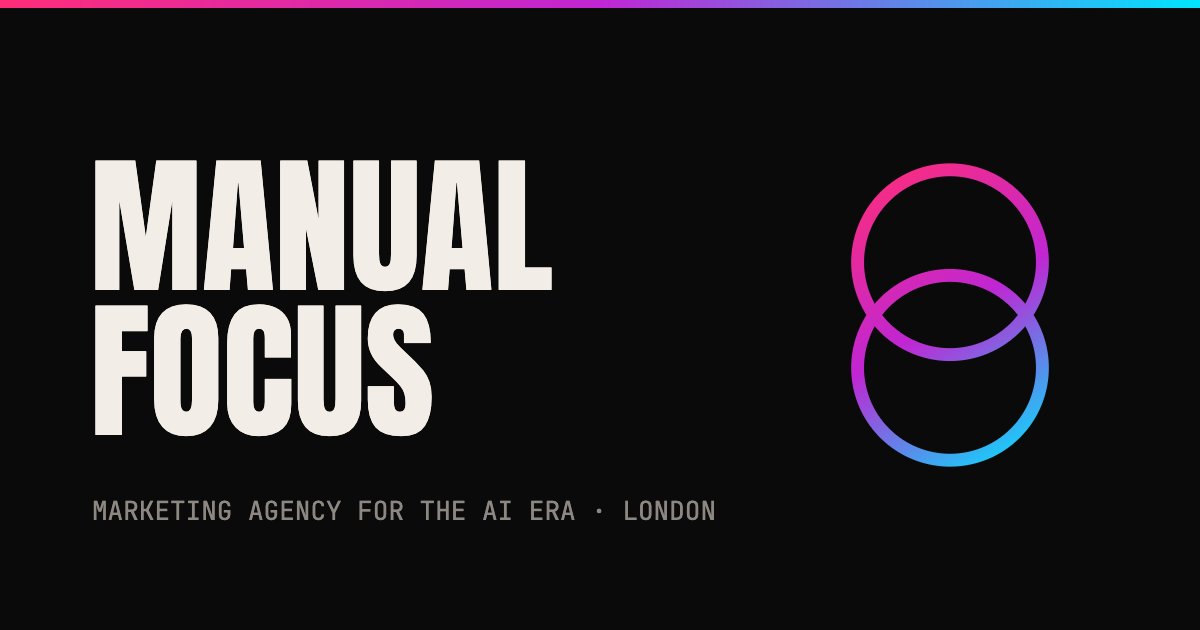
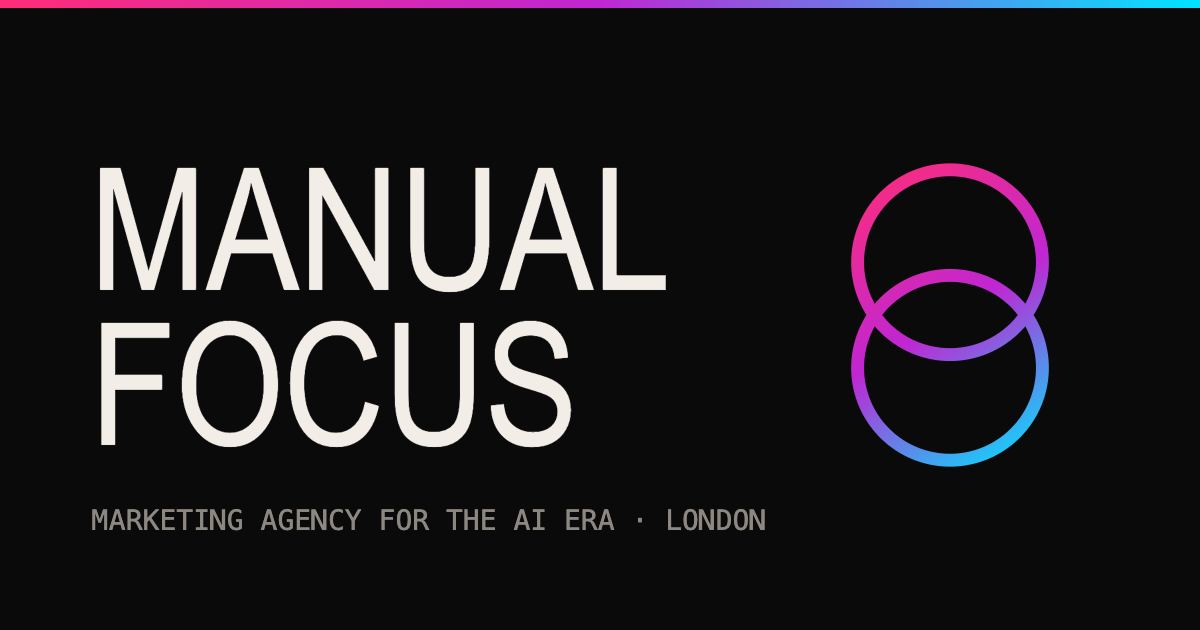
Revert webfont loading — restore the approved fallback typography
The previous self-hosting change unintentionally altered the site's
appearance. The old Google Fonts @user was invalid mid-file CSS and
never loaded, so the rendered design was always the fallback stack
(Arial Narrow condensed for display, SF Mono/Menlo for mono) — and
that rendering is the approved look. Making Anton actually load
changed every headline on the site without sign-off.

This removes the Anton/JetBrains Mono @user rules and font files.
The emitted CSS is byte-identical to the pre-change production build
(same content hash: Base.BbVoK7p8.css). A comment now marks the
missing webfonts as intentional so future work doesn't "fix" it again.

The og-default.png share card is regenerated in the site's real
typography (condensed regular-weight wordmark, Menlo strapline) so it
matches what visitors actually see.

Changed region(s): [[0.0617, 0.2413, 0.555, 0.7238], [0.0617, 0.7841, 0.6475, 0.8444]]

diff --git a/src/styles/global.css b/src/styles/global.css
@@ -136,26 +136,15 @@ body,
   font-display: swap;
 }
 
-/* Display + mono faces self-hosted alongside Inter. Previously pulled
-   from Google Fonts via @import, which is render-blocking (the browser
-   can't paint until the third-party CSS resolves) and adds a DNS/TLS
-   round-trip to fonts.googleapis.com on every cold load. Latin subsets
-   only — same coverage the Google CSS served to modern browsers. */
-@font-face {
-  font-family: 'Anton';
-  src: url('/fonts/anton-latin-400.woff2') format('woff2');
-  font-weight: 400;
-  font-display: swap;
-  unicode-range: U+0000-00FF, U+0131, U[phone redacted], U+02BB-02BC, U+02C6, U+02DA, U+02DC, U+0304, U+0308, U+0329, U+2000-206F, U+20AC, U+2122, U+2191, U+2193, U+2212, U+2215, U+FEFF, U+FFFD;
-}
-
-@font-face {
-  font-family: 'JetBrains Mono';
-  src: url('/fonts/jetbrains-mono-variable.woff2') format('woff2-variations');
-  font-weight: 100 800;
-  font-display: swap;
-  unicode-range: U+0000-00FF, U+0131, U[phone redacted], U+02BB-02BC, U+02C6, U+02DA, U+02DC, U+0304, U+0308, U+0329, U+2000-206F, U+20AC, U+2122, U+2191, U+2193, U+2212, U+2215, U+FEFF, U+FFFD;
-}
+/* INTENTIONALLY NO @font-face FOR ANTON OR JETBRAINS MONO.
+   The --font-display and --font-mono stacks name them first, but the
+   site's actual look is the system fallbacks (Arial Narrow condensed
+   display, SF Mono/Menlo for mono). A Google Fonts @import used to sit
+   here; it was invalid mid-file CSS, never loaded, and the fallback
+   rendering became the approved design. Loading Anton for real changes
+   the whole site's appearance — the owner has explicitly declined that
+   (July 2026). Do not "fix" this by self-hosting or re-importing
+   webfonts without asking first. */
 
 /* --- Base --- */
 html {